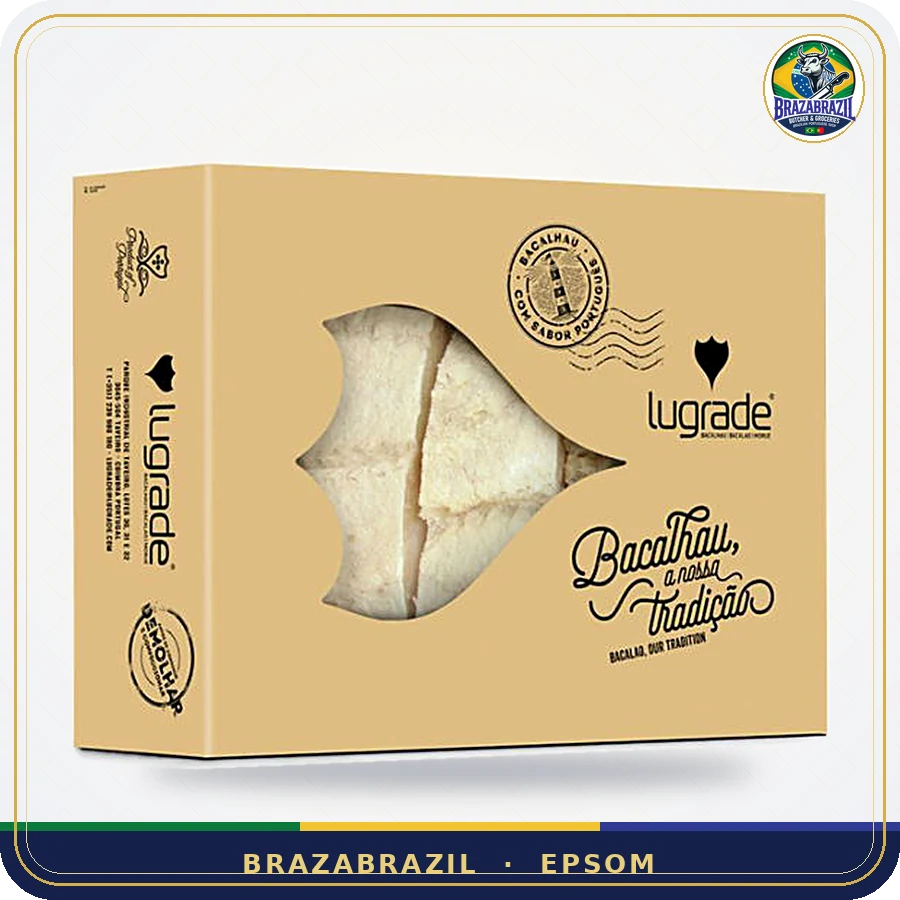
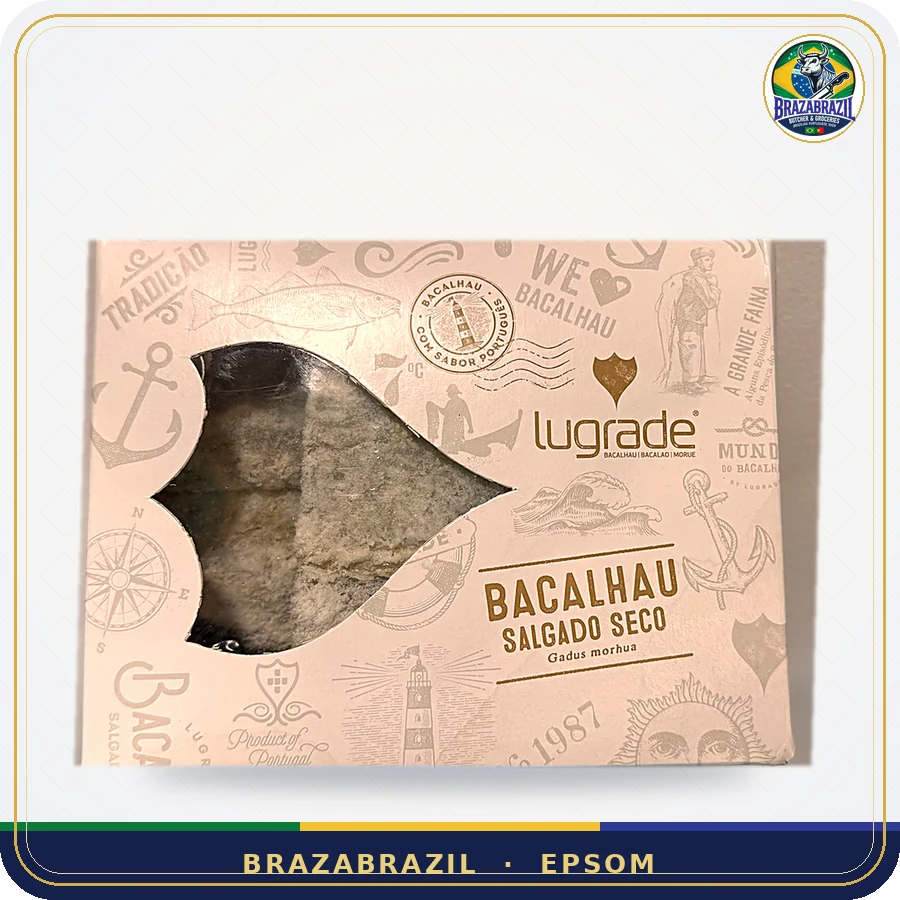
Fotos reais da loja com fundo branco; Tang, geladinhos, polpas Polpa Norte, novos queijos e itens 'em breve'; remove linguiças por kg, costelinha sem barriga, Beirão Kit e kit feijoada por kg
Claude-Session: https://claude.ai/code/session_01DDRaaWaovpG94AFaRVuRbM

diff --git a/js/deli.js b/js/deli.js
@@ -34,21 +34,10 @@ window.GROUPS.deli = [
   G("salsicha-prisca", "Salsicha Prisca", "linguicas",
     { en: "Brazilian BBQ sausage · Prisca", pt: "Salsicha para churrasco · Prisca", es: "Salchicha para barbacoa · Prisca" },
     { en: "Juicy Brazilian-style sausages made for the grill.", pt: "Salsichas suculentas no estilo brasileiro, feitas para a brasa.", es: "Salchichas jugosas estilo brasileño, hechas para la brasa." },
-    [["salsicha-calabresa", "Calabresa", 3.99, "salsicha-calabresa"], ["salsicha-crioula", "Crioula", 3.99, "salsicha-crioula"]], { tags: ["best"] });
+    [["salsicha-calabresa", "Calabresa", 3.99, "salsicha-calabresa"], ["salsicha-crioula", "Crioula", 3.99, "salsicha-crioula"], ["salsicha-toscana", "Toscana BBQ", 0, "salsicha-toscana"]], { tags: ["best"] });
   S("linguica-calabresa-prisca", "Linguiça Calabresa Prisca", "linguicas", 5.50, "linguica-calabresa-prisca",
     { en: "Smoked calabresa sausage", pt: "Calabresa defumada", es: "Longaniza calabresa ahumada" },
     { en: "Smoked and lightly spicy — fry with onions or add to feijoada.", pt: "Defumada e levemente picante — acebolada ou na feijoada.", es: "Ahumada y ligeramente picante — con cebolla o en feijoada." });
-  G("linguica-fresca", "Linguiça Fresca · por kg", "linguicas",
-    { en: "Fresh Brazilian sausages · sold by weight", pt: "Linguiças frescas · vendidas a peso", es: "Longanizas frescas · al peso" },
-    { en: "Fresh Brazilian-style sausages for the churrasco — choose your flavour and the weight you need.", pt: "Linguiças frescas para o churrasco — escolha o sabor e o peso que precisa.", es: "Longanizas frescas para el churrasco — elige sabor y peso." },
-    [["lf-fina", "Tradicional fina", 10.99, "lf-fina", "kg"],
-     ["lf-toscana", "Tradicional toscana", 10.99, "lf-toscana", "kg"],
-     ["lf-frango", "Frango", 10.99, "lf-frango", "kg"],
-     ["lf-frango-cs", "Frango (chicken sausage)", 11.99, "lf-frango-cs", "kg"],
-     ["lf-porco-jlp", "Porco JLP", 11.99, "lf-porco-jlp", "kg"],
-     ["lf-apimentada", "Porco apimentada", 11.99, "lf-apimentada", "kg"],
-     ["lf-porco-queijo", "Porco e queijo", 12.99, "lf-porco-queijo", "kg"],
-     ["lf-costela-bacon", "Costela e bacon", 12.99, "lf-costela-bacon", "kg"]], { unit: "kg", tags: ["best"] });
   G("linguica-topking-g", "Linguiça Top King Gourmet · 1 kg", "linguicas",
     { en: "Premium gourmet sausages · 1 kg pack", pt: "Linguiça gourmet premium · pacote 1 kg", es: "Longaniza gourmet premium · paquete 1 kg" },
     { en: "Top King premium Brazilian-style sausages — six flavours made for the grill.", pt: "Linguiças premium Top King no estilo brasileiro — vários sabores feitos para a brasa.", es: "Longanizas premium Top King — varios sabores para la brasa." },
@@ -101,26 +90,34 @@ window.GROUPS.deli = [
   S("costela-defumada", "Costela de Porco Defumada", "defumados", 13.99, "costela-defumada",
     { en: "Smoked pork ribs · per kg", pt: "Costela suína defumada · por kg", es: "Costillas de cerdo ahumadas · por kg" },
     { en: "Essential for feijoada and feijão tropeiro.", pt: "Essencial na feijoada e no feijão tropeiro.", es: "Imprescindible en la feijoada." }, { unit: "kg" });
-  S("bacon", "Bacon Defumado", "defumados", 14.90, "bacon",
-    { en: "Smoked bacon slab · per kg", pt: "Bacon defumado em manta · por kg", es: "Panceta ahumada · por kg" },
+  S("bacon", "Bacon Extra Slices JLP", "defumados", 14.90, "bacon",
+    { en: "Smoked bacon slices · per kg", pt: "Bacon defumado em fatias · por kg", es: "Panceta ahumada en lonchas · por kg" },
     { en: "Smoky bacon for farofa, feijão and everything else.", pt: "Bacon defumado para farofa, feijão e tudo mais.", es: "Panceta ahumada para farofa, frijoles y más." }, { unit: "kg" });
   S("carne-salgada", "Carne Salgada", "defumados", 14.99, "carne-salgada",
     { en: "Salted beef (carne seca) · per kg", pt: "Carne seca · por kg", es: "Carne salada · por kg" },
     { en: "Desalt overnight — for feijoada, escondidinho and paçoca.", pt: "Dessalgue de véspera — para feijoada, escondidinho e paçoca.", es: "Desalar la víspera — para feijoada y escondidinho." }, { unit: "kg" });
 
+  S("orelheira", "Orelheira Fumada Terras do Demo", "defumados", 0, "orelheira",
+    { en: "Smoked boneless pork head", pt: "Orelheira defumada", "pt-PT": "Orelheira fumada", es: "Cabeza de cerdo ahumada" },
+    { en: "Traditional Portuguese smoked orelheira — for feijoada and cozido.", pt: "Orelheira defumada tradicional — para feijoada e cozido.", es: "Oreja de cerdo ahumada tradicional." }, { tags: ["portuguese"] });
+  S("hotdog-ipanema", "Salsicha Hot Dog Ipanema · 186 g", "linguicas", 0, "hotdog-ipanema",
+    { en: "Brazilian hot dog sausages", pt: "Salsicha para cachorro-quente", es: "Salchichas para perrito caliente" },
+    { en: "The real taste of a Brazilian cachorro-quente.", pt: "O sabor do cachorro-quente brasileiro.", es: "El sabor del perrito caliente brasileño." });
+
   /* ---------- FEIJOADA ---------- */
-  G("kit-feijoada", "Kit Feijoada", "feijoada",
-    { en: "All the meats for a feijoada", pt: "Todas as carnes da feijoada", es: "Todas las carnes para la feijoada" },
-    { en: "Smoked and salted cuts ready to go — just add black beans.", pt: "Carnes defumadas e salgadas prontas — é só juntar o feijão preto.", es: "Cortes ahumados y salados listos — solo añade frijoles negros." },
-    [["kit-feijoada-kg", "Kit da casa · por kg", 14.99, "kit-feijoada", "kg"], ["kit-feijoada-1kg", "Kit Granum · 1 kg", 19.99, "kit-feijoada-1kg"]], { tags: ["best"] });
+  S("kit-feijoada-1kg", "Kit Feijoada · 1 kg", "feijoada", 19.99, "kit-feijoada",
+    { en: "All the meats for a feijoada · 1 kg pack", pt: "Todas as carnes da feijoada · pacote 1 kg", es: "Todas las carnes para la feijoada · 1 kg" },
+    { en: "Smoked and salted cuts ready to go — just add black beans.", pt: "Carnes defumadas e salgadas prontas — é só juntar o feijão preto.", es: "Cortes ahumados y salados listos — solo añade frijoles negros." }, { tags: ["best"] });
 
   // the example Toscana sausage joins this category (still example price)
   const tosc = window.PRODUCTS.find(p => p.id === "toscana");
   if (tosc) { tosc.cat = "deli"; tosc.group = "linguicas"; out.push(tosc); window.PRODUCTS = window.PRODUCTS.filter(p => p !== tosc); }
 
+  const SOON = new Set(["salsicha-toscana", "orelheira", "hotdog-ipanema"]);
+  out.forEach(p => { if (SOON.has(p.id)) { p.available = false; p.soon = true; } });
   // sort by group then price (groups use cheapest option)
   const byId = Object.fromEntries(out.map(p => [p.id, p]));
-  out.forEach(p => { if (p.isGroup) p.price = Math.min(...p.variants.map(v => byId[v].price)); });
+  out.forEach(p => { if (p.isGroup) { const ps = p.variants.map(v => byId[v].price).filter(x => x > 0); p.price = ps.length ? Math.min(...ps) : 0; } });
   const order = window.GROUPS.deli.map(g => g.id);
   out.sort((a, b) => order.indexOf(a.group) - order.indexOf(b.group) || a.price - b.price || a.name.localeCompare(b.name));
 

diff --git a/js/frozen.js b/js/frozen.js
@@ -66,11 +66,12 @@ window.GROUPS.frozen = [
     [["acai-200g", "200 g", 2.99, "acai-200g"], ["acai-500g", "500 g", 6.99, "acai-500g"], ["acai-1kg", "1,02 kg", 11.99, "acai-1kg"],
      ["acai-12kg", "1,2 kg", 14.99, "acai-12kg"], ["acai-3kg", "3,6 kg", 38.00, "acai-3kg"]],
     { tags: ["frozen", "best"] });
-  G("polpas", "Polpa de Fruta", "acai",
-    { en: "Frozen fruit pulp · 100 g", pt: "Polpa congelada · 100 g", es: "Pulpa de fruta congelada · 100 g" },
+  G("polpas", "Polpa de Fruta Polpa Norte", "acai",
+    { en: "Polpa Norte frozen fruit pulp · 100 g", pt: "Polpa congelada Polpa Norte · 100 g", es: "Pulpa de fruta congelada Polpa Norte · 100 g" },
     { en: "100% fruit pulp for juices, smoothies and desserts.", pt: "100% polpa de fruta para sucos, vitaminas e sobremesas.", es: "100% pulpa de fruta para zumos, batidos y postres." },
-    [["polpa-acai", "Açaí", 1.99, "polpa-acai"], ["polpa-maracuja", "Maracujá", 1.99, "polpa-maracuja"], ["brasfrut-cacau", "Cacau Brasfrut", 1.99, "brasfrut-cacau"],
-     ["brasfrut-cupuacu", "Cupuaçu Brasfrut", 1.99, "brasfrut-cupuacu"], ["polpa-cupuacu", "Cupuaçu Polpa Norte", 13.99, "polpa-cupuacu"]],
+    [["polpa-maracuja", "Maracujá", 1.99, "polpa-maracuja"], ["polpa-manga", "Manga", 0, "polpa-maracuja"],
+     ["polpa-caja", "Cajá", 0, "polpa-maracuja"], ["polpa-acerola", "Acerola", 0, "polpa-maracuja"],
+     ["polpa-cupuacu-1kg", "Cupuaçu · 1 kg", 0, "polpa-maracuja"]],
     { tags: ["frozen", "vegan"] });
   S("cupuacu", "Creme de Cupuaçu Polpa Norte", "acai", 9.99, "cupuacu",
     { en: "Cupuaçu cream · 1.02 kg", pt: "Creme de cupuaçu · 1,02 kg", es: "Crema de cupuaçu · 1,02 kg" },
@@ -131,8 +132,8 @@ window.GROUPS.frozen = [
      ["beths-enrolado-12", "Enroladinho de salsicha · 12 un", 5.99, "beths-enrolado-12"],
      ["beths-coxinha", "Coxinha de frango · 50 un", 19.90, "beths-coxinha"], ["beths-kibe", "Kibe · 50 un", 19.90, "beths-kibe"],
      ["beths-bolinha", "Bolinha 4 queijos · 50 un", 19.90, "beths-bolinha"], ["beths-enrolado", "Enrolado de salsicha · 50 un", 19.90, "beths-enrolado"]], { tags: ["frozen", "best"] });
-  S("croquete", "Croquete", "salgados", 3.50, "croquete",
-    { en: "Brazilian beef croquette", pt: "Croquete de carne", es: "Croqueta de carne" },
+  S("croquete", "Croquete de Carne Prosilar · 12 un", "salgados", 3.50, "croquete",
+    { en: "Meat croquettes · 12 units", pt: "Croquete de carne · 12 unidades", es: "Croquetas de carne · 12 unidades" },
     { en: "Crispy outside, tasty filling inside — fry or air-fry.", pt: "Crocante por fora, recheio saboroso — frito ou na air fryer.", es: "Crujiente por fuera, sabroso por dentro — frito o en freidora de aire." });
   S("dadinho", "Dadinho de Tapioca Sol", "salgados", 5.99, "dadinho",
     { en: "Tapioca cheesy dice · 300 g", pt: "Dadinho de tapioca · 300 g", es: "Dados de tapioca con queso · 300 g" },
@@ -179,11 +180,23 @@ window.GROUPS.frozen = [
   G("bacalhau-postas", "Bacalhau em Postas", "fish",
     { en: "Salt cod loins", pt: "Postas de bacalhau", es: "Lomos de bacalao" },
     { en: "Thick Portuguese cod loins — for bacalhau assado or à lagareiro.", pt: "Postas altas de bacalhau — para assado ou à lagareiro.", es: "Lomos gruesos de bacalao — al horno o a la lagareira." },
-    [["bacalhau-postas-lugrade", "Lugrade · 1 kg", 25.99, "bacalhau-postas-lugrade"], ["bacalhau-posta-brites", "Brites congelada · kg", 30.00, "bacalhau-posta-brites", "kg"]], { tags: ["frozen", "portuguese"] });
+    [["bacalhau-postas-lugrade", "Lugrade salgado seco · 1 kg", 25.99, "bacalhau-postas-lugrade"], ["bacalhau-posta-brites", "Brites congelada · kg", 30.00, "bacalhau-posta-brites", "kg"]], { tags: ["frozen", "portuguese"] });
 
+  S("pasteis-bacalhau", "Pastéis de Bacalhau Sr. Bacalhau · 360 g", "salgados", 0, "pasteis-bacalhau",
+    { en: "Portuguese codfish cakes", pt: "Pastéis de bacalhau", "pt-PT": "Pastéis de bacalhau", es: "Buñuelos de bacalao" },
+    { en: "Traditional recipe — fry from frozen until golden.", pt: "Receita tradicional — frite direto do congelador até dourar.", es: "Receta tradicional — freír desde congelado." }, { tags: ["frozen", "portuguese"] });
+  G("geladinho", "Geladinho Gourmet Icy Love", "sweets",
+    { en: "Brazilian gourmet ice lollies", pt: "Geladinho gourmet · vários sabores", es: "Helados caseros brasileños" },
+    { en: "Creamy Brazilian geladinhos (sacolé / chup-chup) — lots of flavours.", pt: "Geladinho cremoso (sacolé / chup-chup) — vários sabores.", es: "Helados cremosos brasileños — muchos sabores." },
+    [["gel-maracuja", "Maracujá", 0, "geladinho"], ["gel-leite-condensado", "Leite condensado", 0, "geladinho"], ["gel-morango-nutella", "Morango com Nutella", 0, "geladinho"],
+     ["gel-pudim", "Pudim de leite condensado", 0, "geladinho"], ["gel-coco-queimado", "Coco queimado", 0, "geladinho"], ["gel-acai-ninho", "Açaí com Ninho", 0, "geladinho"],
+     ["gel-ninho-morango", "Ninho com morango", 0, "geladinho"], ["gel-abacate", "Abacate", 0, "geladinho"], ["gel-ninho-nutella", "Ninho com Nutella", 0, "geladinho"],
+     ["gel-doce-leite", "Doce de leite", 0, "geladinho"]]);
+  const SOON = new Set(["polpa-manga", "polpa-caja", "polpa-acerola", "polpa-cupuacu-1kg", "pasteis-bacalhau", "geladinho", "gel-maracuja", "gel-leite-condensado", "gel-morango-nutella", "gel-pudim", "gel-coco-queimado", "gel-acai-ninho", "gel-ninho-morango", "gel-abacate", "gel-ninho-nutella", "gel-doce-leite"]);
+  out.forEach(p => { if (SOON.has(p.id)) { p.available = false; p.soon = true; } });
   // sort: by group order, then lowest price (groups use their cheapest option)
   const byId = Object.fromEntries(out.map(p => [p.id, p]));
-  out.forEach(p => { if (p.isGroup) p.price = Math.min(...p.variants.map(v => byId[v].price)); });
+  out.forEach(p => { if (p.isGroup) { const ps = p.variants.map(v => byId[v].price).filter(x => x > 0); p.price = ps.length ? Math.min(...ps) : 0; } });
   const order = window.GROUPS.frozen.map(g => g.id);
   out.sort((a, b) => order.indexOf(a.group) - order.indexOf(b.group) || a.price - b.price || a.name.localeCompare(b.name));
 

diff --git a/js/groceries.js b/js/groceries.js
@@ -44,6 +44,23 @@ window.GROUPS.groceries = [
     { en: "Portuguese butter", pt: "Manteiga portuguesa", es: "Mantequilla portuguesa" },
     { en: "Creamy Portuguese butter for bread, pão na chapa and cooking.", pt: "Manteiga portuguesa cremosa para o pão, pão na chapa e cozinhar.", es: "Mantequilla portuguesa cremosa." },
     [["manteiga-mimosa", "Mimosa tradicional com sal", 4.20, "manteiga-mimosa"], ["manteiga-matinal", "Matinal magra · −45% gordura", 4.99, "manteiga-matinal"]], { tags: ["portuguese"] });
+  S("muenster", "Queijo Muenster Paisa · 283 g", "laticinios", 0, "muenster",
+    { en: "Muenster cheese", pt: "Queijo muenster", es: "Queso Muenster" },
+    { en: "Mild, creamy and great for melting.", pt: "Suave, cremoso e ótimo para derreter.", es: "Suave, cremoso e ideal para fundir." });
+  S("llanero", "Queso Llanero Paisa · 283 g", "laticinios", 0, "llanero",
+    { en: "Venezuelan-style hard cheese", pt: "Queijo duro estilo venezuelano", es: "Queso duro estilo venezolano" },
+    { en: "Salty and firm — for arepas, cachapas and grating.", pt: "Salgado e firme — para arepas e para ralar.", es: "Salado y firme — para arepas y cachapas." });
+  S("requeijao-mabiju", "Requeijão Cremoso Mabiju · 220 g", "laticinios", 0, "requeijao-mabiju",
+    { en: "Brazilian cream cheese spread", pt: "Requeijão cremoso", es: "Queso crema brasileño" },
+    { en: "The creamy requeijão Brazilians love on bread and in recipes.", pt: "O requeijão cremoso para o pão e as receitas.", es: "El requeijão cremoso para el pan y recetas." });
+  G("tang", "Refresco em Pó Tang · 18 g", "geral",
+    { en: "Powdered drink mix · makes 1 L", pt: "Refresco em pó · faz 1 litro", es: "Refresco en polvo · rinde 1 L" },
+    { en: "The classic Brazilian powdered juice — just add water. Lots of flavours.", pt: "O clássico suco em pó — é só misturar com água. Vários sabores.", es: "El clásico refresco en polvo — solo añade agua." },
+    [["tang-abacaxi", "Abacaxi", 1.50, "tang-abacaxi"], ["tang-goiaba", "Goiaba", 1.50, "tang-goiaba"], ["tang-laranja", "Laranja", 1.50, "tang-laranja"],
+     ["tang-limao", "Limão", 1.50, "tang-limao"], ["tang-manga", "Manga", 1.50, "tang-manga"], ["tang-maracuja", "Maracujá", 1.50, "tang-maracuja"],
+     ["tang-morango", "Morango", 1.50, "tang-morango"], ["tang-tangerina", "Tangerina", 1.50, "tang-tangerina"], ["tang-uva", "Uva", 1.50, "tang-uva"]]);
+  const SOON = new Set(["muenster", "llanero", "requeijao-mabiju"]);
+  out.forEach(p => { if (SOON.has(p.id)) { p.available = false; p.soon = true; } });
   const order = window.GROUPS.groceries.map(g => g.id);
   out.sort((a, b) => order.indexOf(a.group) - order.indexOf(b.group) || a.price - b.price || a.name.localeCompare(b.name));
   window.PRODUCTS.push(...out);

diff --git a/js/drinks.js b/js/drinks.js
@@ -124,9 +124,6 @@ window.DRINK_GROUPS = window.GROUPS.drinks = [
     D("beirao", "Licor Beirão", "spirits", 21.99, "beirao",
       { en: "Portuguese liqueur", pt: "Licor português", es: "Licor portugués" },
       { en: "Portugal’s favourite liqueur — herbs, spices and a smooth finish.", pt: "O licor de Portugal — ervas, especiarias e final suave.", es: "El licor favorito de Portugal — hierbas, especias y final suave." }),
-    D("beirao-kit", "Licor Beirão Kit", "spirits", 32.99, "beirao-kit",
-      { en: "Gift box with shot glasses", pt: "Kit presente com copinhos", es: "Caja regalo con vasitos" },
-      { en: "The perfect gift: Licor Beirão with decorated shot glasses.", pt: "O presente perfeito: Licor Beirão com copinhos decorados.", es: "El regalo perfecto: Licor Beirão con vasitos decorados." }),
     D("macieira", "Macieira Cream Five Star", "spirits", 34.99, "macieira",
       { en: "Portuguese cream liqueur · 70 cl", pt: "Licor cremoso português · 70 cl", es: "Licor de crema portugués · 70 cl" },
       { en: "Smooth, creamy liqueur made with Macieira brandy. Serve over ice.", pt: "Licor cremoso e suave feito com brandy Macieira. Sirva com gelo.", es: "Licor cremoso y suave hecho con brandy Macieira. Servir con hielo." }),

diff --git a/js/pork.js b/js/pork.js
@@ -29,9 +29,6 @@ window.GROUPS.pork = [
     K("bisteca", "Bisteca de Porco", "cuts", 7.50, "kg", "bisteca",
       { en: "Pork striploin chops", pt: "Bisteca suína", "pt-PT": "Costeletas de porco", es: "Chuletas de cerdo" },
       { en: "Juicy chops for the frying pan or grill.", pt: "Bistecas suculentas para frigideira ou grelha.", es: "Chuletas jugosas para la sartén o la parrilla." }),
-    K("costelinha-sem-barriga", "Costelinha de Porco sem Barriga", "cuts", 7.99, "kg", "costelinha-sem-barriga",
-      { en: "Trimmed pork ribs · no belly", pt: "Costelinha limpa, sem barriga", es: "Costillar de cerdo sin panceta" },
-      { en: "Lean, trimmed ribs — perfect for barbecue ribs.", pt: "Costelinha magra e limpa — perfeita para costelinha barbecue.", es: "Costillar magro y limpio — perfecto para costillas a la barbacoa." }),
 
     /* ---------- FEIJOADA & STEWS ---------- */
     K("joelho", "Joelho de Porco", "feijoada", 6.99, "kg", "joelho",

diff --git a/js/app.js b/js/app.js
@@ -158,7 +158,7 @@
     const out = g.isGroup ? g.variants.every(id => byId[id].available === false) : p.available === false;
     const optsHtml = g.isGroup ? `<label class="opt"><span>${t("opt_choose")}</span><select data-group="${g.id}">${g.variants.map(id => {
       const v = byId[id];
-      return `<option value="${id}"${id === p.id ? " selected" : ""}${v.available === false ? " disabled" : ""}>${v.optionLabel} — ${money(v.price)}${v.available === false ? " · " + t("out") : ""}</option>`;
+      return `<option value="${id}"${id === p.id ? " selected" : ""}${v.available === false ? " disabled" : ""}>${v.optionLabel} — ${v.soon ? t("soon") : money(v.price) + (v.available === false ? " · " + t("out") : "")}</option>`;
     }).join("")}</select></label>` : "";
     const media = p.image ? `<img src="${p.image}" alt="${p.name} — ${pick(p.sub)}" loading="lazy">` : icon(p.cat);
     return `

diff --git a/js/chicken.js b/js/chicken.js
@@ -38,7 +38,7 @@ window.GROUPS.chicken = [
     { en: "Quail eggs · 12", pt: "Ovos de codorna · 12 un", es: "Huevos de codorniz · 12" },
     { en: "Boil, peel and serve as a snack or in salads.", pt: "Cozinhe, descasque e sirva como petisco ou na salada.", es: "Cocer, pelar y servir como aperitivo o en ensaladas." });
   const byId = Object.fromEntries(out.map(p => [p.id, p]));
-  out.forEach(p => { if (p.isGroup) p.price = Math.min(...p.variants.map(v => byId[v].price)); });
+  out.forEach(p => { if (p.isGroup) { const ps = p.variants.map(v => byId[v].price).filter(x => x > 0); p.price = ps.length ? Math.min(...ps) : 0; } });
   const order = window.GROUPS.chicken.map(g => g.id);
   out.sort((a, b) => order.indexOf(a.group) - order.indexOf(b.group) || a.price - b.price || a.name.localeCompare(b.name));
   window.PRODUCTS.push(...out);

diff --git a/js/home.js b/js/home.js
@@ -132,7 +132,7 @@ window.GROUPS.home = [
     { en: "Ultra-hydrating curl activator for defined, frizz-free curls.", pt: "Ativador de cachos ultra-hidratante — definição, brilho e antifrizz.", es: "Activador de rizos ultrahidratante, sin frizz." });
 
   const byId = Object.fromEntries(out.map(p => [p.id, p]));
-  out.forEach(p => { if (p.isGroup) p.price = Math.min(...p.variants.map(v => byId[v].price)); });
+  out.forEach(p => { if (p.isGroup) { const ps = p.variants.map(v => byId[v].price).filter(x => x > 0); p.price = ps.length ? Math.min(...ps) : 0; } });
   const order = window.GROUPS.home.map(g => g.id);
   out.sort((a, b) => order.indexOf(a.group) - order.indexOf(b.group) || a.price - b.price || a.name.localeCompare(b.name));
   window.PRODUCTS.push(...out);

diff --git a/js/candy.js b/js/candy.js
@@ -226,7 +226,7 @@ window.GROUPS.candy = [
     { en: "Crunchy peanuts with a really cheesy coating.", pt: "Amendoins crocantes com cobertura sabor queijo.", es: "Cacahuetes crujientes con cobertura de queso." });
 
   const byId = Object.fromEntries(out.map(p => [p.id, p]));
-  out.forEach(p => { if (p.isGroup) p.price = Math.min(...p.variants.map(v => byId[v].price)); });
+  out.forEach(p => { if (p.isGroup) { const ps = p.variants.map(v => byId[v].price).filter(x => x > 0); p.price = ps.length ? Math.min(...ps) : 0; } });
   const order = window.GROUPS.candy.map(g => g.id);
   out.sort((a, b) => order.indexOf(a.group) - order.indexOf(b.group) || a.price - b.price || a.name.localeCompare(b.name));
   window.PRODUCTS.push(...out);
